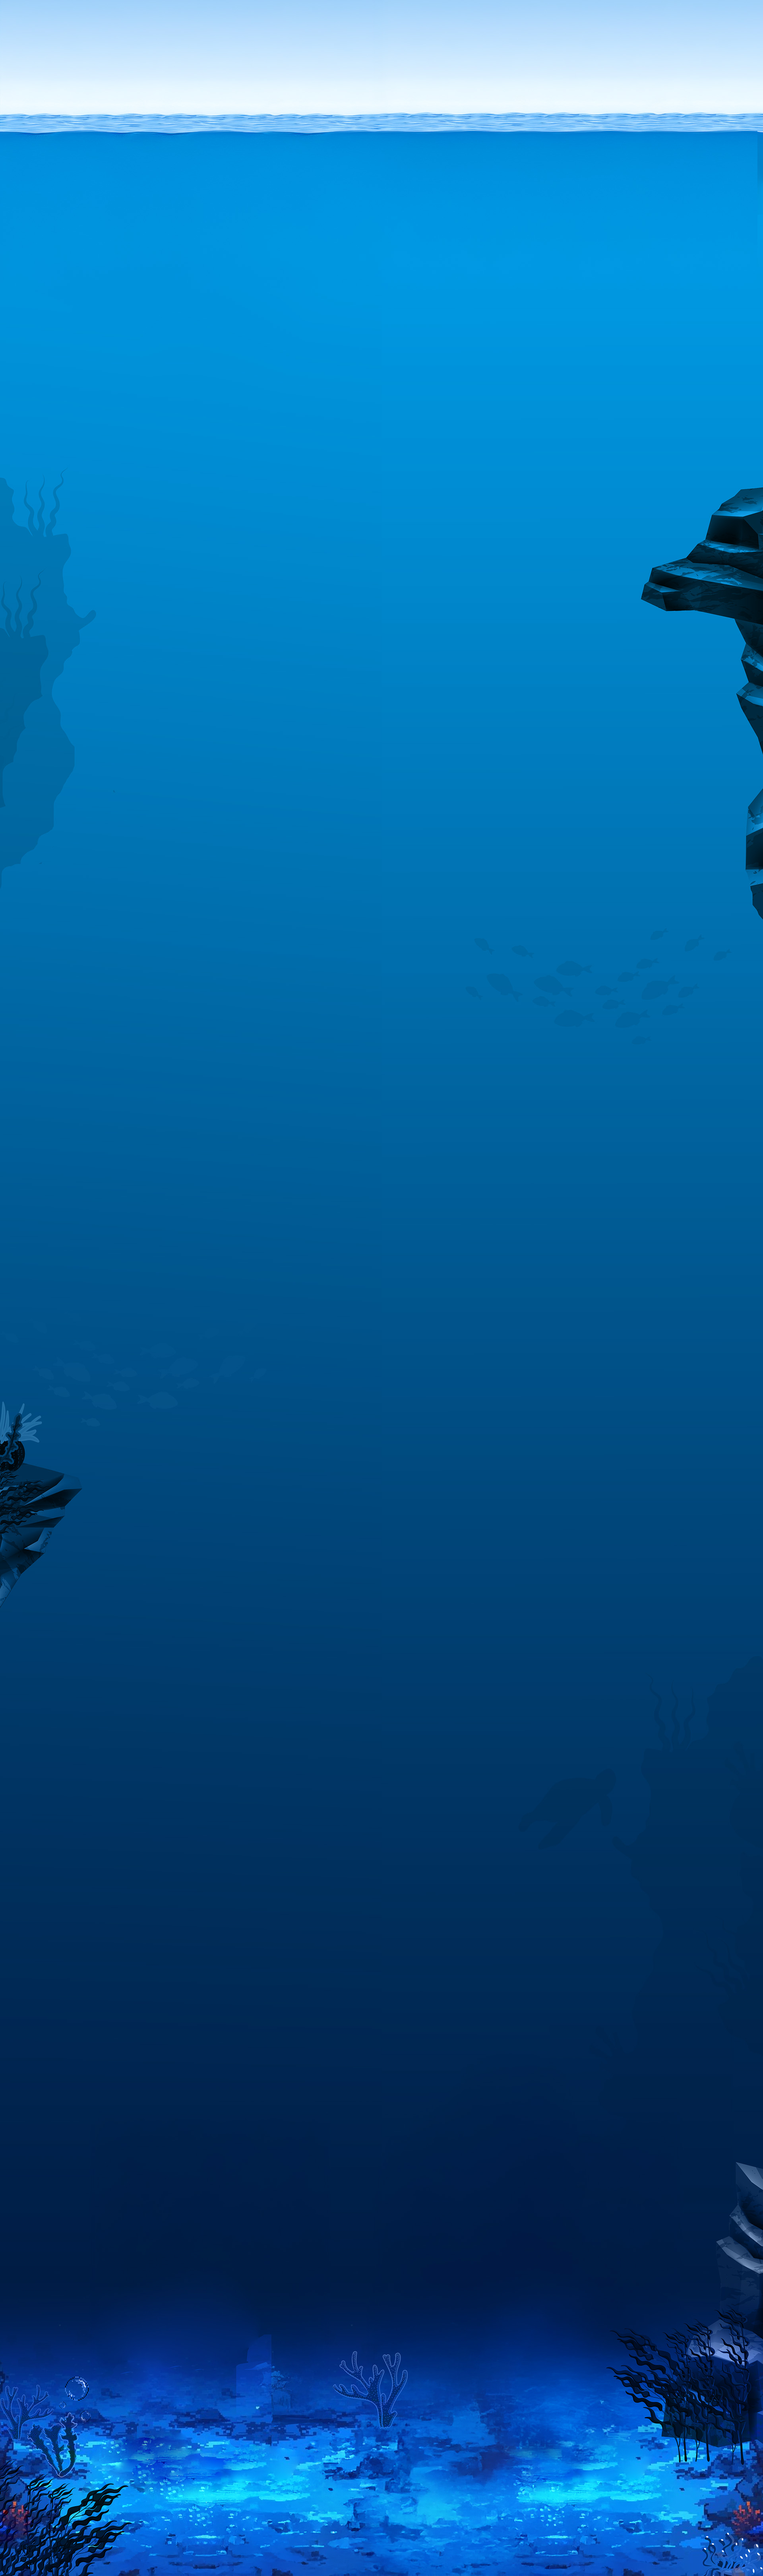
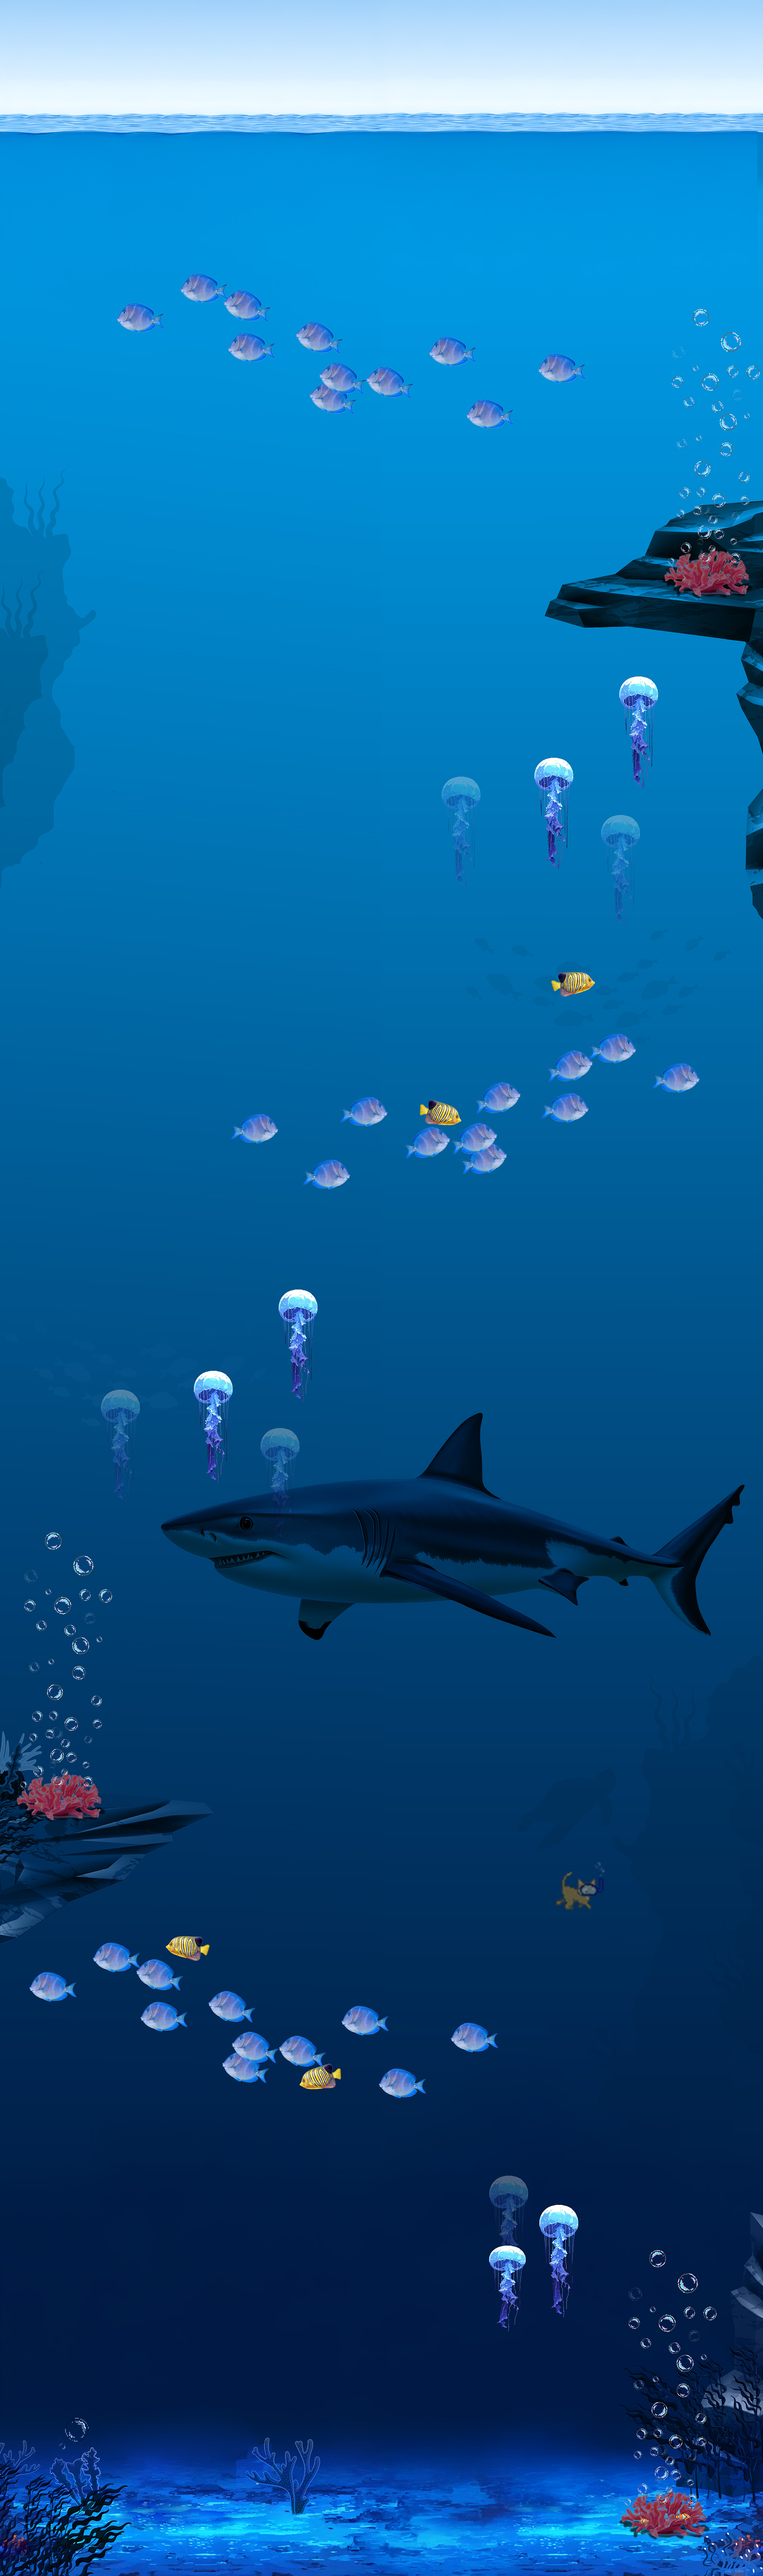
Add platforms

diff --git a/obstacle.py b/obstacle.py
@@ -41,20 +41,35 @@ class Obstacle():
 
         # Init Jellyfishes
         self.jellyfish_group.add(
-            Jellyfish(
+            Jellyfish( # Bottom right 1
                 color=Colors.BROWN, 
-                x=self.map.map_rect.width - 500, 
-                y=self.map.map_rect.height - 1050, 
+                x=1350, 
+                y=5550, 
             ),
-            Jellyfish(
+            Jellyfish( # Bottom right 2
                 color=Colors.BROWN, 
-                x=self.map.map_rect.width - 1000, 
-                y=self.map.map_rect.height - 1250, 
+                x=1225, 
+                y=5650, 
             ),
-            Jellyfish(
+            Jellyfish( # Cornice left 1
                 color=Colors.BROWN, 
-                x=self.map.map_rect.width - 750, 
-                y=self.map.map_rect.height - 1750, 
+                x=400, 
+                y=3750,
+            ),
+            Jellyfish( # Cornice left 2
+                color=Colors.BROWN, 
+                x=700, 
+                y=3250,
+            ),
+            Jellyfish( # Cornice right 1
+                color=Colors.BROWN, 
+                x=1350, 
+                y=1900,
+            ),
+            Jellyfish( # Cornice right 2
+                color=Colors.BROWN, 
+                x=1560, 
+                y=1700,
             ),
         )
 
@@ -62,10 +77,10 @@ class Obstacle():
         self.shark_group.add(
             Shark(
                 color=Colors.RED, 
-                x=self.map.map_rect.width - 200, 
-                y=self.map.map_rect.bottom - 3500,
-                width=1000,
-                height=300
+                x=400, 
+                y=3550,
+                width=1400,
+                height=700
             ),
         )
 
@@ -73,17 +88,24 @@ class Obstacle():
         self.bubble_group.add(
             Bubble( # Bubles bottom right
                 color=Colors.GREEN, 
-                x=self.map.map_rect.width - 300, 
-                y=self.map.map_rect.height - 1050, 
+                x=1575, 
+                y=5600, 
                 width=200, 
-                height=1000
+                height=800
             ),
-            Bubble( # Bubles cornice left
+            Bubble( # Bubles cornice bottom left
                 color=Colors.GREEN, 
-                x=0, 
-                y=self.map.map_rect.bottom - 3500,
-                width=100, 
-                height=750
+                x=65, 
+                y=3850,
+                width=210, 
+                height=685
+            ),
+            Bubble( # Bubles cornice top right
+                color=Colors.GREEN, 
+                x=1670, 
+                y=800,
+                width=200, 
+                height=700
             ),
         )
 
@@ -92,30 +114,44 @@ class Obstacle():
             Placeholder( # Cornice bottom left
                 color=Colors.YELLOW,                 
                 x=0, 
-                y=self.map.map_rect.height - 2750, 
-                width=200, 
+                y=4535, 
+                width=525, 
                 height=25
+            ),
+            Placeholder( # Cornice top right
+                color=Colors.YELLOW,                 
+                x=1360, 
+                y=1500, 
+                width=1920-1360, 
+                height=50
             ),
             Placeholder( # TODO: à refaire : Premier banc de poisson, poisson 1
                 color=Colors.YELLOW,                 
-                x=self.map.map_rect.width - 300, 
-                y=self.map.map_rect.height - 2000, 
-                width=50, 
-                height=25
+                x=750, 
+                y=5200, 
+                width=100, 
+                height=50
             ),
             Placeholder( # TODO: à refaire : Premier banc de poisson, poisson 2
                 color=Colors.YELLOW,                 
-                x=self.map.map_rect.width - 900, 
-                y=self.map.map_rect.height - 2300, 
-                width=50, 
-                height=25
+                x=410, 
+                y=4875, 
+                width=100, 
+                height=50
             ),
-            Placeholder( # TODO: à refaire : Premier banc de poisson, poisson 3
+            Placeholder( # TODO: à refaire : Second banc de poisson, poisson 
                 color=Colors.YELLOW,                 
-                x=300, 
-                y=self.map.map_rect.height - 2350, 
-                width=50, 
-                height=25
+                x=1050, 
+                y=2750, 
+                width=100, 
+                height=50
+            ),
+            Placeholder( # TODO: à refaire : Second banc de poisson, poisson 2
+                color=Colors.YELLOW,                 
+                x=1375, 
+                y=2450, 
+                width=100, 
+                height=50
             ),
         )
 

diff --git a/main.py b/main.py
@@ -6,7 +6,6 @@ from src.utils.game_over import GameOver
 from src.entities.player import Player
 from src.utils.generaluse import GeneralUse
 from src.utils.map import Map
-from src.utils.window import HEIGHT, WIDTH
 from pygame.font import SysFont
 from game_menu import GameMenu
 from pygame.locals import *

diff --git a/src/utils/window.py b/src/utils/window.py
@@ -1,1 +1,1 @@
-WIDTH, HEIGHT = 1600, 1000
+WIDTH, HEIGHT = 1920, 1080
